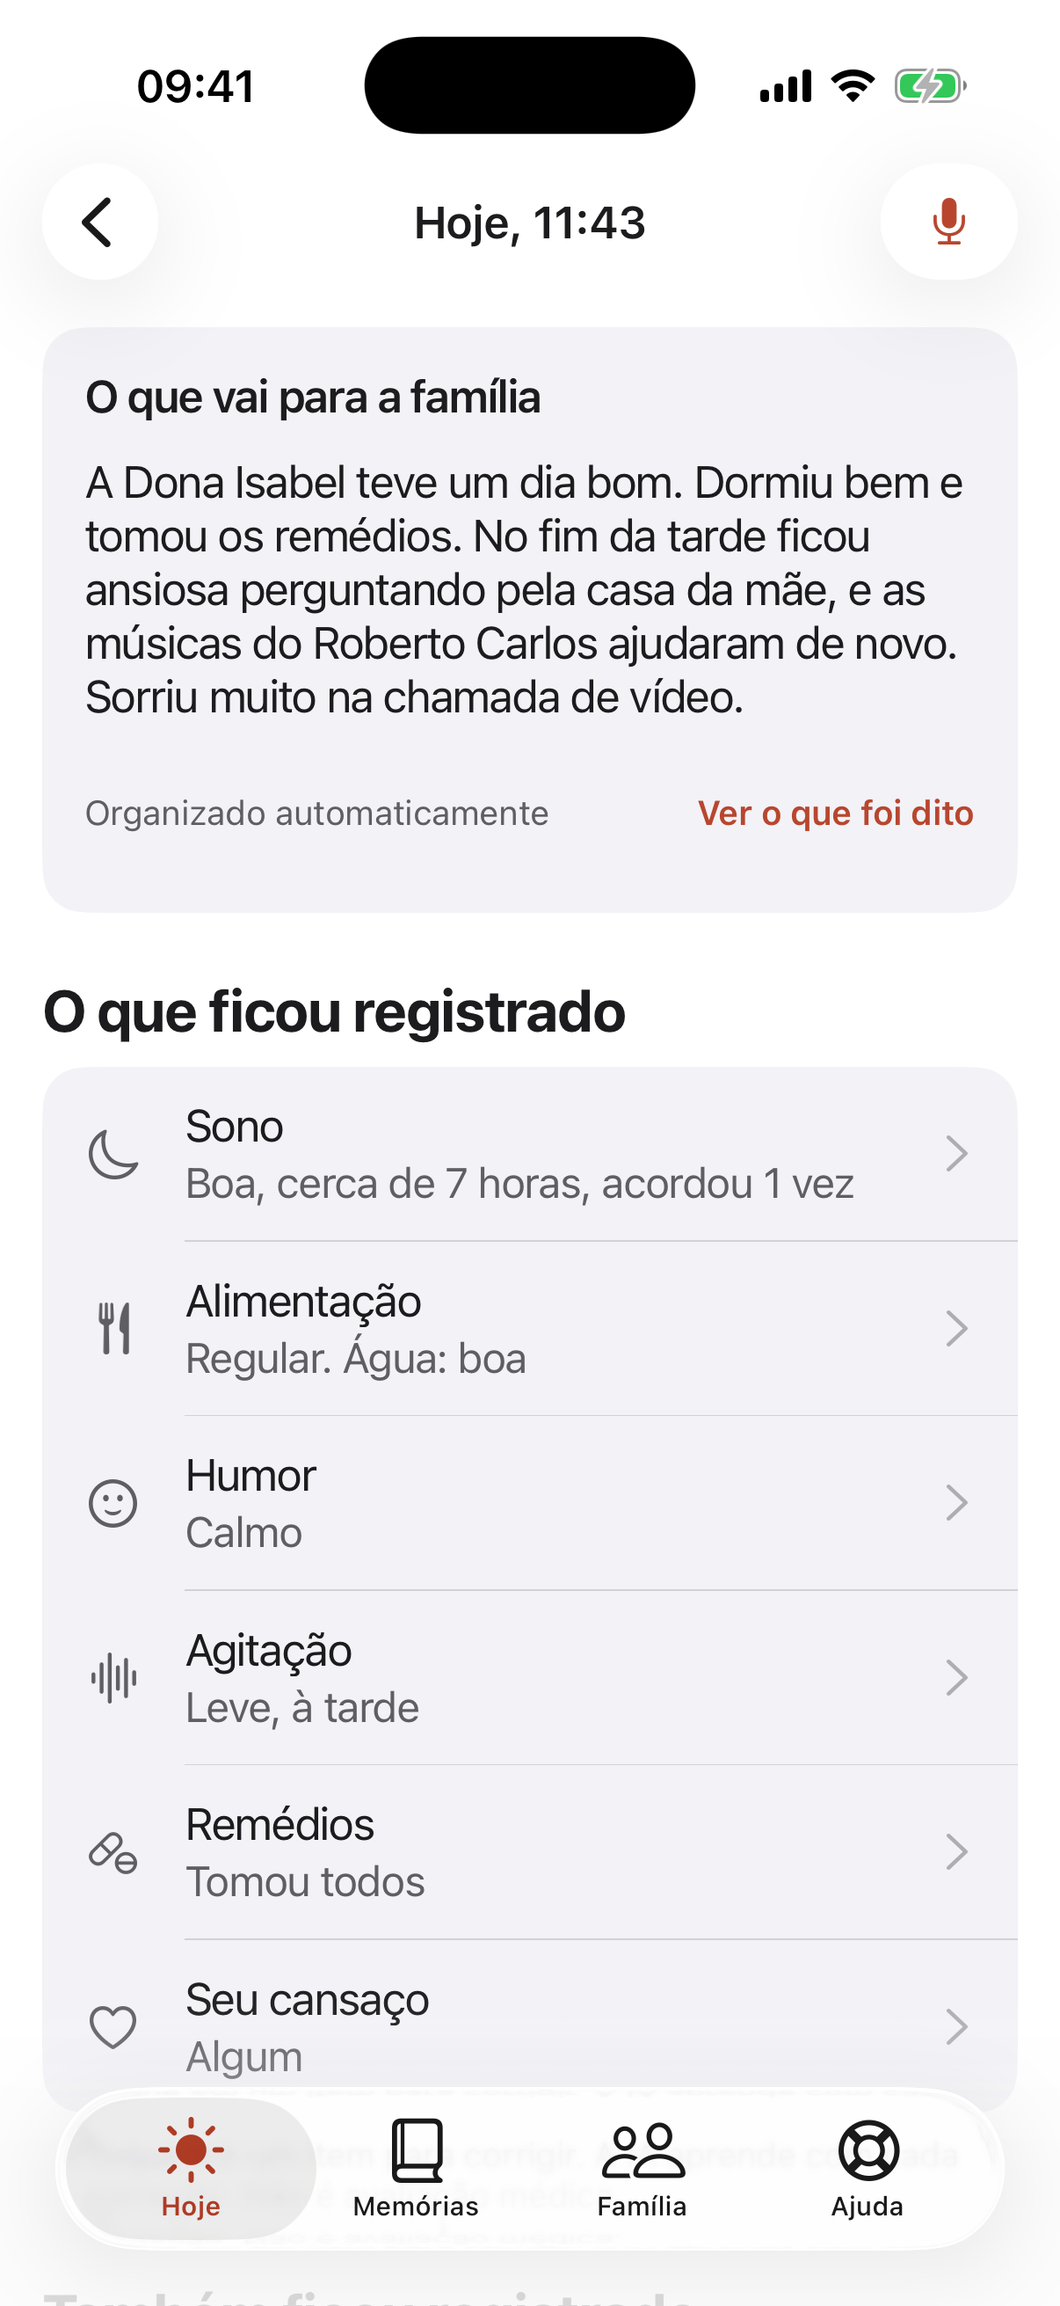
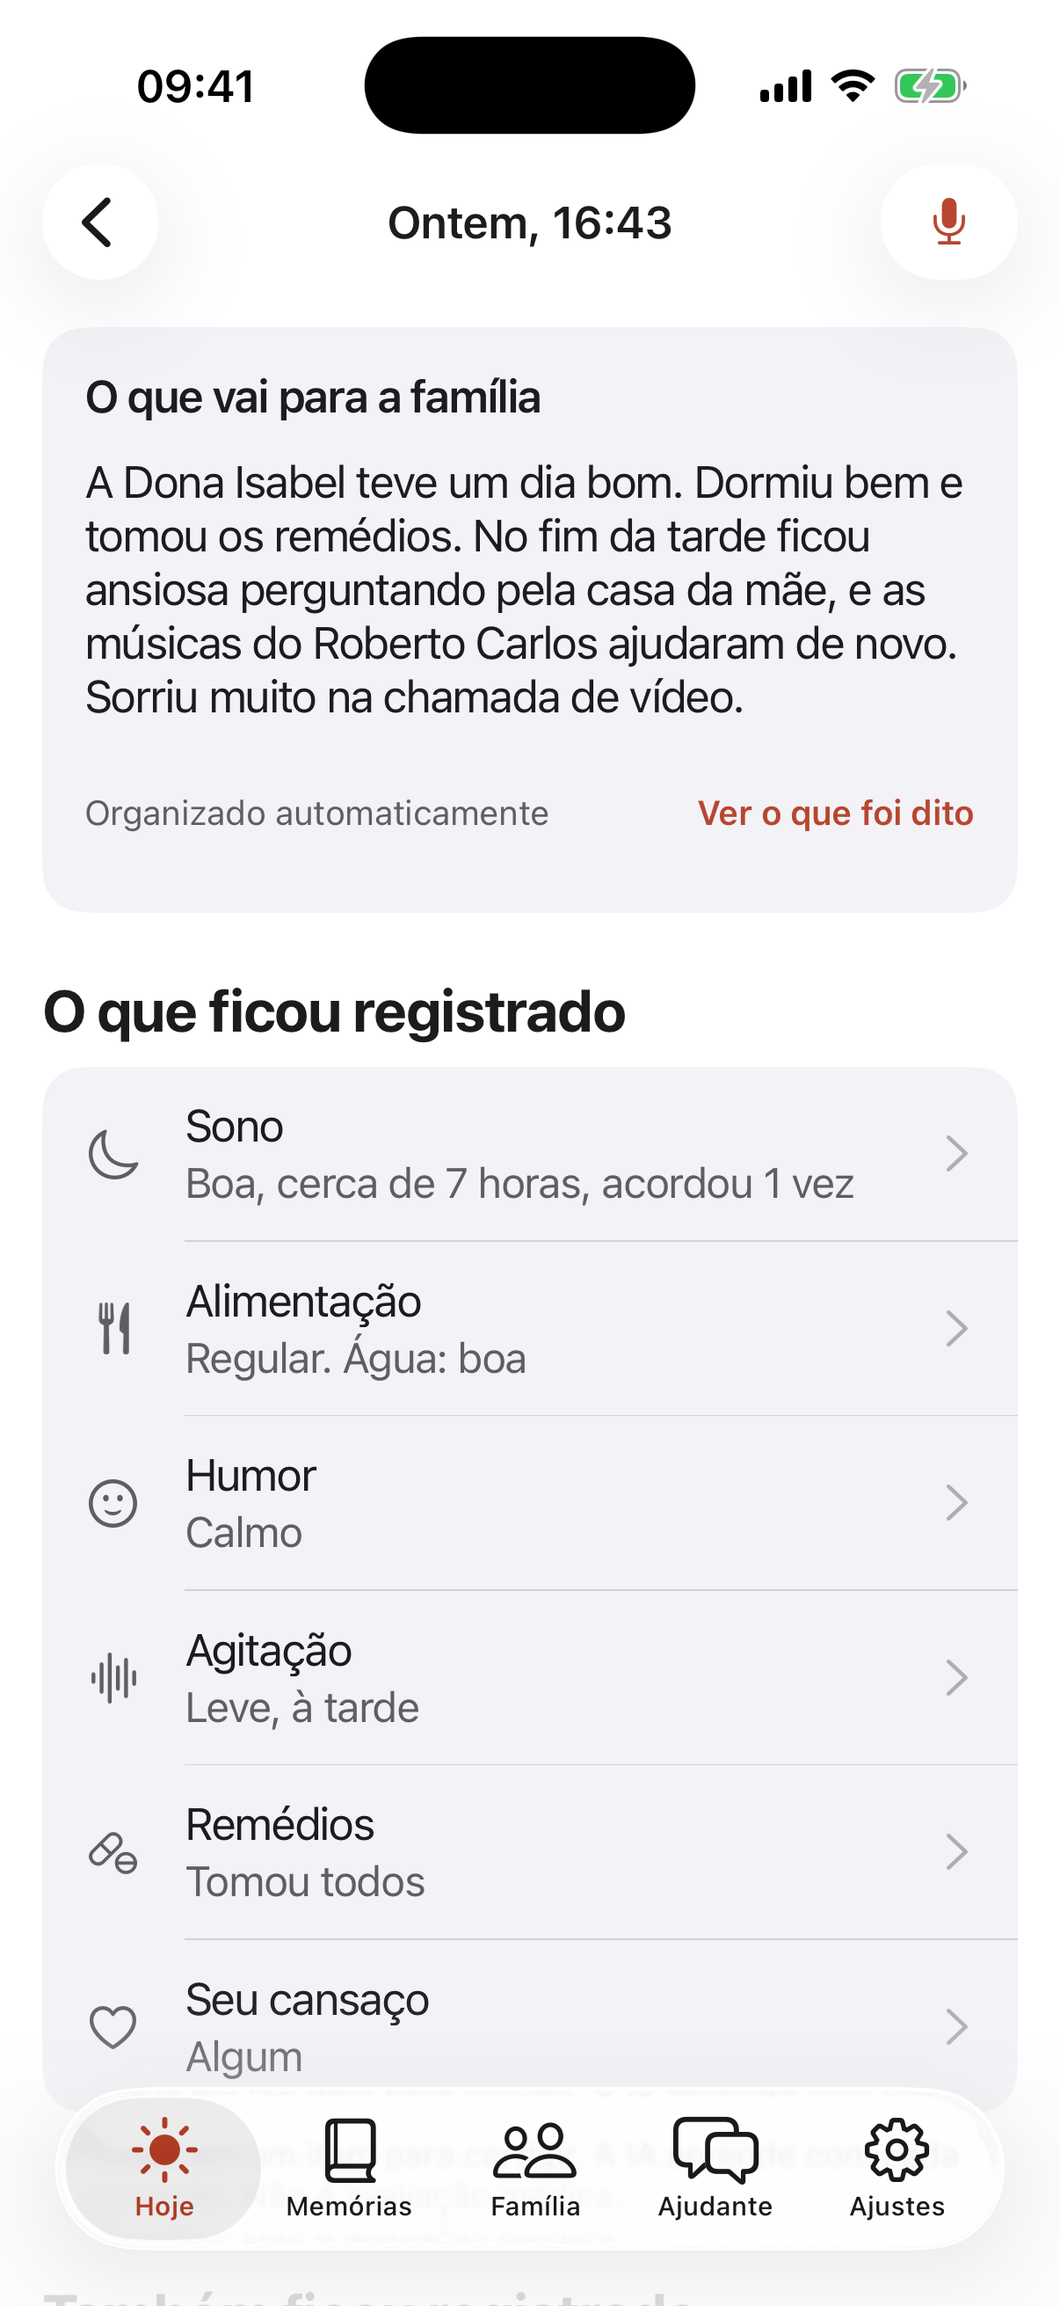
docs: README com as 20 telas atuais e tudo o que foi construído
- Prints novos de todas as telas (só modo claro, como o app), em destaque e
  numa galeria; capturas antigas e do modo escuro removidas.
- Funções, princípios, arquitetura, stack, como rodar a IA no aparelho e a
  avaliação do Apoio atualizados.
- Corrigido: nome próprio não vira minúscula na conversa do dia.

diff --git a/backend/core/reminiscencia.py b/backend/core/reminiscencia.py
@@ -225,12 +225,18 @@ def _pesos(temas: list[Tema], historico: list[dict], hoje: date) -> dict[str, fl
     return pesos
 
 
+def _tem_nome_proprio(titulo: str) -> bool:
+    """Alguma palavra além da primeira começa com maiúscula (nome de pessoa, lugar, música)."""
+    return any(p[:1].isupper() for p in titulo.split()[1:])
+
+
 def _preencher(pergunta: str, tema: Tema) -> str:
     t, de_t = _sem_artigo(tema.titulo)
     if tema.tipo == "musica":
         t = f'"{tema.titulo}"'
         de_t = f'de "{tema.titulo}"'
-    elif tema.tipo in ("comida", "gosto"):
+    elif tema.tipo in ("comida", "gosto") and not _tem_nome_proprio(tema.titulo):
+        # "Retalhos de tecido" vira "retalhos de tecido"; "Roberto Carlos" fica como está.
         t = tema.titulo[0].lower() + tema.titulo[1:]
     texto = pergunta.replace("{de_t}", de_t).replace("{T}", t[0].upper() + t[1:]).replace("{t}", t)
     return texto

diff --git a/backend/tests/test_reminiscencia.py b/backend/tests/test_reminiscencia.py
@@ -116,3 +116,10 @@ def test_demo_comeca_com_o_passaporte_da_dona_isabel(ambiente):  # noqa: F811
     demo = cliente.get("/passaporte", headers={"X-Familia": "familia-demo"}).json()
     assert demo["como_gosta_de_ser_chamada"] == "Dona Isabel"
     assert len(demo["lembrancas"]) == 5
+
+
+def test_nome_proprio_nao_vira_minuscula():
+    tema = reminiscencia.Tema("gosto:x", "gosto", "Roberto Carlos")
+    assert "Roberto Carlos" in reminiscencia._preencher("A senhora gosta de {t}, né?", tema)
+    tema2 = reminiscencia.Tema("gosto:y", "gosto", "Retalhos de tecido")
+    assert "de retalhos de tecido" in reminiscencia._preencher("A senhora gosta de {t}, né?", tema2)

diff --git a/README.md b/README.md
@@ -35,21 +35,36 @@ O SempreAqui é um app de celular, pensado para ser usado por voz, que faz três
 
 | Função | O que faz | Onde a IA entra |
 |---|---|---|
-| **Passaporte de Memória** | A família manda áudios, fotos e textos sobre a pessoa. Sai um perfil com como ela gosta de ser chamada, história, pessoas importantes, rotina, músicas, comidas, o que acalma, o que agita e como se comunica. Gera link somente leitura e PDF de uma página para cuidadores, centro-dia ou hospital. | IA multimodal transcreve e extrai de áudios, fotos e textos soltos um perfil estruturado |
-| **Conversas de Reminiscência** | Sessões de 5 a 10 minutos com uma foto, música ou lembrança e perguntas abertas e gentis para a família conduzir. Nunca "você lembra?". Registra como a pessoa reagiu. | Gera roteiros personalizados a partir do Passaporte e aprende com as reações |
-| **Diário Inteligente** | Quem cuida grava um áudio contando o dia. Sai um registro de sono, alimentação, humor, agitação, episódios e medicação, um resumo semanal para a família e uma lista objetiva "Para levar na consulta". | Transcreve, extrai campos estruturados e compara com o habitual da própria pessoa |
-| **Apoio na Hora Difícil** | Quem cuida descreve a situação ("ela está agitada e quer ir embora") e recebe o que costuma funcionar para aquela pessoa. Dúvidas gerais são respondidas com fontes oficiais e link. Em risco, orienta ligar 192 e avisa a família. | Agente determinístico cruza Passaporte e Diário; busca em trechos oficiais literais, com link para a página |
-| **Rede da Família** | Grupo com papéis, divisão de tarefas (consultas, visitas, cobrir a folga de quem cuida), lembretes e um feed com os resumos. | Os resumos da IA viram o feed que mantém todos por perto |
-| **Ajudante** | Um chat para a família perguntar como ela está, como foi a semana, o que falta fazer ou o que fazer numa hora difícil. Cada resposta diz de onde veio. | Responde com os dados registrados; na hora difícil, usa o Apoio; no iPhone, a IA do aparelho cobre o que as regras não reconhecem, validada pelos guardrails |
+| **Diário Inteligente** | Quem cuida grava um áudio contando o dia. Sai um registro de sono, alimentação, humor, agitação, episódios e remédios, cada campo corrigível com um toque, um resumo para a família, a semana com o que mudou em relação ao habitual e uma lista "Para levar na consulta" em PDF. Funciona sem internet. | Transcreve e extrai campos estruturados, no próprio iPhone quando dá; aprende com as correções da família |
+| **Passaporte de Memória** | Quem ela é, como se comunica, pessoas importantes, rotina, o que acalma, o que agita, músicas, comidas e lembranças com foto. A família conta falando ou escrevendo e confere antes de salvar; o app mostra o que falta. Sai em PDF de uma página e em link somente leitura para cuidador, centro-dia ou hospital. | Separa nas seções o que a família contou; a família marca o que entra |
+| **Conversa do dia** | Uma conversa de 5 a 10 minutos, em tela cheia e letra grande, com foto, música no YouTube e perguntas gentis. Muda todo dia, nunca pergunta "você lembra?" e guarda como ela reagiu para escolher as próximas. | Roteiros revisados escolhidos por regras; no iPhone, a IA reescreve as perguntas para ela, com validação |
+| **Ajudante** | Um chat para a família: "como ela está?", "como foi a semana?", "o que falta fazer?", "ela está agitada, o que eu faço?". Cada resposta diz de onde veio. Na hora difícil, traz o que costuma funcionar com ela e o que dizem as fontes oficiais; em risco, 192 e aviso à família. Remédio e diagnóstico recebem recusa gentil. | Responde com os dados registrados e trechos oficiais literais; no iPhone, a IA cobre o que as regras não reconhecem, validada pelos guardrails |
+| **Rede da Família** | Convite pelo WhatsApp, papéis, tarefas da semana com "Eu assumo" em um toque e lembrete no celular, feed do que aconteceu com "Obrigado" e avisos urgentes. Cada pessoa com nome e foto. | Os resumos do Diário e as conversas viram o feed que mantém todos por perto |
 
 <p align="center">
-  <img src="design/screens/01-hoje-claro.png" alt="Hoje: botão de gravar o dia e último relato" width="190">
-  <img src="design/screens/04-relato-claro.png" alt="Relato organizado pela IA, cada campo corrigível com um toque" width="190">
-  <img src="design/screens/05-corrigir-claro.png" alt="Corrigir um campo com um toque" width="190">
-  <img src="design/screens/07-relato-risco-escuro.png" alt="Relato com situação de risco e botão de 192, em modo escuro" width="190">
+  <img src="design/screens/01-hoje-claro.png" alt="Hoje: contar o dia, pedir ajuda, 192 e o que há para hoje" width="200">
+  <img src="design/screens/04-relato-claro.png" alt="Relato organizado pela IA, cada campo corrigível com um toque" width="200">
+  <img src="design/screens/16-ajudante-apoio-claro.png" alt="Ajudante na hora difícil: o que costuma funcionar e trechos oficiais com link" width="200">
+  <img src="design/screens/13-familia-claro.png" alt="Família: tarefas com Eu assumo e o que aconteceu" width="200">
 </p>
 
-<p align="center"><sub>Telas rodando no iPhone (iOS 26). Família fictícia, retratos gerados por IA. Todas as telas, em modo claro e escuro, estão em <a href="design/screens">design/screens</a>.</sub></p>
+<p align="center"><sub>Telas rodando no iPhone (iOS 26). Família fictícia, retratos gerados por IA. Todas as telas estão na <a href="#o-app-tela-por-tela">galeria abaixo</a>.</sub></p>
+
+## O app, tela por tela
+
+Cinco abas: **Hoje**, **Memórias**, **Família**, **Ajudante** e **Ajustes**. Cada tela tem uma ação principal clara; o resto fica em listas e em links no título das seções.
+
+| Hoje | Contar o dia | Relato organizado | Corrigir com um toque |
+|---|---|---|---|
+| <img src="design/screens/01-hoje-claro.png" alt="Hoje" width="170"> | <img src="design/screens/03-gravar-claro.png" alt="Contar o dia" width="170"> | <img src="design/screens/04-relato-claro.png" alt="Relato organizado" width="170"> | <img src="design/screens/05-corrigir-claro.png" alt="Corrigir com um toque" width="170"> |
+| **Situação de risco** | **Diário** | **Semana e consulta** | **Passaporte de Memória** |
+| <img src="design/screens/07-relato-risco-claro.png" alt="Situação de risco" width="170"> | <img src="design/screens/06-diario-claro.png" alt="Diário" width="170"> | <img src="design/screens/02-semana-claro.png" alt="Semana e consulta" width="170"> | <img src="design/screens/08-memorias-claro.png" alt="Passaporte de Memória" width="170"> |
+| **Contar uma memória** | **Lembrança com foto** | **Conversa do dia** | **Como foi a conversa** |
+| <img src="design/screens/09-contar-memoria-claro.png" alt="Contar uma memória" width="170"> | <img src="design/screens/10-editar-memoria-claro.png" alt="Lembrança com foto" width="170"> | <img src="design/screens/11-sessao-claro.png" alt="Conversa do dia" width="170"> | <img src="design/screens/12-sessao-reacao-claro.png" alt="Como foi a conversa" width="170"> |
+| **Família** | **Pedir ajuda com uma tarefa** | **Ajudante** | **Ajudante na hora difícil** |
+| <img src="design/screens/13-familia-claro.png" alt="Família" width="170"> | <img src="design/screens/14-nova-tarefa-claro.png" alt="Pedir ajuda com uma tarefa" width="170"> | <img src="design/screens/15-ajudante-claro.png" alt="Ajudante" width="170"> | <img src="design/screens/16-ajudante-apoio-claro.png" alt="Ajudante na hora difícil" width="170"> |
+| **Ajustes** | **Privacidade e dados** | **Primeira abertura** | **Termo em linguagem simples** |
+| <img src="design/screens/17-ajustes-claro.png" alt="Ajustes" width="170"> | <img src="design/screens/18-privacidade-claro.png" alt="Privacidade e dados" width="170"> | <img src="design/screens/19-onboarding-claro.png" alt="Primeira abertura" width="170"> | <img src="design/screens/20-termo-claro.png" alt="Termo em linguagem simples" width="170"> |
 
 ## Por que IA
 
@@ -60,11 +75,11 @@ Sem IA, o SempreAqui seria mais um app de anotações que ninguém atualiza. Com
 ## Princípios
 
 - **A IA não diagnostica e não dá orientação médica.** Ela organiza, resume, aponta mudanças em relação ao habitual da própria pessoa e encaminha. Nunca sugere remédios ou doses, nunca diz que algo é "sinal de piora".
-- **Fontes oficiais, sempre com link.** Toda informação geral de saúde vem de materiais do Ministério da Saúde, ABRAz e outras fontes públicas reconhecidas.
+- **Fontes oficiais, sempre com link.** Toda orientação geral é trecho literal de fonte oficial (hoje, o Guia Prático do Cuidador, do Ministério da Saúde), com link para a página. Nada é escrito pela IA.
 - **Guardrails testados, não só pedidos no prompt.** Todo texto voltado à família passa por uma verificação automática. Se a IA errar duas vezes, a família recebe um resumo montado sem IA. Risco sempre gera orientação de ligar 192.
 - **LGPD de verdade.** Consentimento explícito por finalidade, dados isolados por grupo familiar no próprio banco (Row Level Security), nada de dado real em logs, exportar e apagar tudo com um toque.
 - **Linguagem respeitosa.** "Pessoa que vive com Alzheimer", "quem cuida", "família". Nunca "paciente", "fardo" ou "peso".
-- **Acessível para quem está cansada.** Voz como entrada principal, fontes grandes, alto contraste, botões grandes.
+- **Acessível para quem está cansada.** Voz como entrada principal, fontes grandes, alto contraste, botões grandes, e cada tela com uma ação principal clara.
 
 Tudo isso está detalhado em [docs/etica-e-seguranca.md](docs/etica-e-seguranca.md).
 
@@ -94,7 +109,7 @@ Os dois lados usam a mesma interface do módulo nativo (`disponibilidade`, `tran
 - Quando o relato sincroniza, o backend confere o resumo de novo e recalcula o risco: a palavra final é sempre do servidor.
 - Regras fixas protegem contra o modelo menor: se o relato não fala de remédio, o campo fica "não foi falado", diga o modelo o que disser.
 - Correções num relato do celular também não vão para a nuvem: o resumo é reescrito no próprio aparelho.
-- Quem cuida pode desligar a IA do celular em Família, Privacidade e dados.
+- Quem cuida pode desligar a IA do celular em Ajustes, Privacidade.
 
 Arquitetura, requisitos, contrato de sincronização, plano do Android e como avaliamos: [docs/ia-no-aparelho.md](docs/ia-no-aparelho.md).
 
@@ -117,18 +132,19 @@ flowchart TB
 
     subgraph API["Backend (FastAPI)"]
         G{{Guardrails do servidor<br/>palavra final}}
-        subgraph Agentes["Agentes LangGraph"]
+        subgraph Agentes["Agentes"]
+            D[Diário<br/>LangGraph]
             P[Passaporte]
-            D[Diário]
-            R[Reminiscência]
-            A[Apoio]
+            R[Conversa do dia<br/>regras]
+            A[Ajudante e Apoio<br/>regras + fontes]
+            RF[Rede da Família]
         end
         L[Camada de provedores de IA]
     end
 
-    subgraph Dados["Supabase: Postgres + pgvector"]
+    subgraph Dados["Supabase: Postgres, Storage e RLS"]
         F[(Dados da família<br/>RLS por grupo)]
-        E[(Fontes oficiais<br/>com URL)]
+        E[(Trechos oficiais<br/>com página e link)]
     end
 
     M[Modelos via OpenRouter<br/>Gemini 3 Flash<br/>só como reserva]
@@ -138,7 +154,7 @@ flowchart TB
     Q -- "só o registro organizado" --> G
     V -. "aparelho sem suporte: áudio" .-> D
     P & D & R & A --> L --> M
-    A -- RAG --> E
+    A -- busca --> E
     G --> F
     Agentes --> F
     F --> T
@@ -146,7 +162,9 @@ flowchart TB
 
 - **Caminho no aparelho (iPhone com Apple Intelligence, construído):** transcrição, extração estruturada e resumo rodam no celular. Para o backend vai só a transcrição e o registro, e ele reaplica os guardrails e recalcula o risco antes de salvar. Detalhes, requisitos e o plano para Android em [docs/ia-no-aparelho.md](docs/ia-no-aparelho.md).
 - **Caminho na nuvem (reserva):** cada função é um grafo LangGraph com etapas pequenas e verificáveis. O do Diário transcreve, extrai um JSON validado com Pydantic, avalia risco, resume e revisa com guardrails.
-- **Conversa de hoje:** montada sem IA, a partir do Passaporte, com roteiros revisados que mudam todo dia e aprendem com a reação registrada pela família.
+- **Conversa do dia:** montada sem IA, a partir do Passaporte, com roteiros revisados que mudam todo dia e aprendem com a reação registrada pela família. No iPhone, a IA do aparelho reescreve as perguntas e uma validação barra "lembra", "recorda" e "esqueceu".
+- **Ajudante e Apoio:** determinísticos de propósito. Reconhecem a pergunta, respondem com os dados da família e dizem de onde veio; na hora difícil, cruzam Passaporte e Diário e citam trechos oficiais literais. As avaliações medem 100% de recusa médica e de fonte (veja [docs/avaliacao.md](docs/avaliacao.md)).
+- **Rede da Família:** convites por código, tarefas, feed e avisos, com o mesmo isolamento por família no banco.
 
 Decisões e detalhes em [docs/arquitetura.md](docs/arquitetura.md).
 
@@ -154,7 +172,7 @@ Decisões e detalhes em [docs/arquitetura.md](docs/arquitetura.md).
 
 | Camada | Tecnologia |
 |---|---|
-| App | React Native com Expo (TypeScript), Expo Router e build nativo instalável |
+| App | React Native com Expo (TypeScript), Expo Router, abas nativas do iOS, notificações locais para lembretes e build nativo instalável |
 | IA no aparelho, iOS | Módulo nativo em Swift: SpeechAnalyzer (iOS 26) e Apple Foundation Models com geração guiada pelo schema |
 | IA no aparelho, Android | Planejado: SpeechRecognizer no aparelho ou Whisper, e Gemini Nano (ML Kit) ou modelo aberto pequeno via llama.cpp |
 | Backend | Python, FastAPI |
@@ -179,7 +197,7 @@ uv run python -m demo.seed         # Dona Isabel, Cláudia e Rafael, com relatos
 uv run uvicorn api.main:app --host 0.0.0.0 --port 8000
 ```
 
-**App** (instale o Expo Go no celular, na mesma rede Wi-Fi do computador):
+**App** (no Expo Go, na mesma rede Wi-Fi do computador):
 
 ```bash
 cd app
@@ -187,7 +205,7 @@ npm install
 npx expo start          # escaneie o QR code com o Expo Go
 ```
 
-O app encontra o backend sozinho, pelo mesmo IP do Metro. Grave um relato, veja a IA organizar, corrija um campo e ouça o áudio original.
+O app encontra o backend sozinho, pelo mesmo IP do Metro. No Expo Go tudo funciona, com a IA na nuvem. Para a **IA no próprio celular**, instale o build nativo num iPhone com Apple Intelligence: `npx expo run:ios --device` (com `APPLE_TEAM_ID` no `app/.env`).
 
 **Prova de conceito pela linha de comando:**
 
@@ -206,6 +224,7 @@ cd backend
 uv run pytest
 uv run python -m evals.avaliar_guardrails
 uv run python -m evals.avaliar_diario
+uv run python -m evals.avaliar_apoio      # recusa médica, risco, fontes
 uv run python -m evals.comparar_transcricao google/gemini-3-flash-preview
 ```
 
@@ -230,7 +249,7 @@ Trabalhamos em ciclos curtos, cada um entregando uma funcionalidade de ponta a p
 | 4 | Conversa do dia que muda todo dia, personalizada no celular e que aprende com a reação | construído |
 | 5 | Apoio na Hora Difícil com fontes oficiais, 192 e recusa médica medida em 100% | construído |
 | 6 | Rede da Família: convite no WhatsApp, "Eu assumo", lembretes e "obrigado" | construído |
-| 7 | Polimento, acessibilidade, deploy e roteiro do Demo Day | |
+| 7 | Polimento, acessibilidade, deploy e roteiro do Demo Day | em andamento: navegação e visual feitos |
 | Em paralelo | IA no próprio celular: transcrição e organização do relato sem sair do aparelho | construído no iPhone |
 
 O que mudou em cada ciclo está no [CHANGELOG](CHANGELOG.md).

diff --git a/CHANGELOG.md b/CHANGELOG.md
@@ -2,6 +2,12 @@
 
 O que mudou em cada ciclo, do mais recente para o mais antigo.
 
+## README com as telas atuais (novembro de 2026)
+
+- 20 prints novos das telas como estão hoje, no README em destaque e numa galeria "O app, tela por tela". Saíram as capturas antigas e as do modo escuro, que o app não usa mais.
+- README atualizado: funções, princípios, arquitetura com os agentes atuais (Diário, Passaporte, Conversa do dia, Ajudante e Apoio, Rede da Família), stack, como rodar a IA no aparelho e a avaliação do Apoio.
+- Corrigido: na conversa do dia, nomes próprios não viram mais minúscula ("Roberto Carlos").
+
 ## Tela Hoje reorganizada (novembro de 2026)
 
 - Resumo da semana no Hoje fechado em duas linhas, com quantas mudanças houve; abre ali mesmo com um toque.

diff --git a/design/DESIGN.md b/design/DESIGN.md
@@ -8,7 +8,7 @@ Três palavras guiam tudo: **calmo, claro, acolhedor**.
 
 - `logo.png`: logo completa. Duas pessoas formam um coração em volta de uma casa, com uma mão que acolhe.
 - `simbolo.png`: só o símbolo, usado como ícone do app.
-- `screens/`: capturas de todas as telas no iPhone 17 Pro (iOS 26), em modo claro e escuro.
+- `screens/`: capturas de todas as telas no iPhone 17 Pro (iOS 26). O app usa sempre o modo claro.
 
 ## Princípios
 
